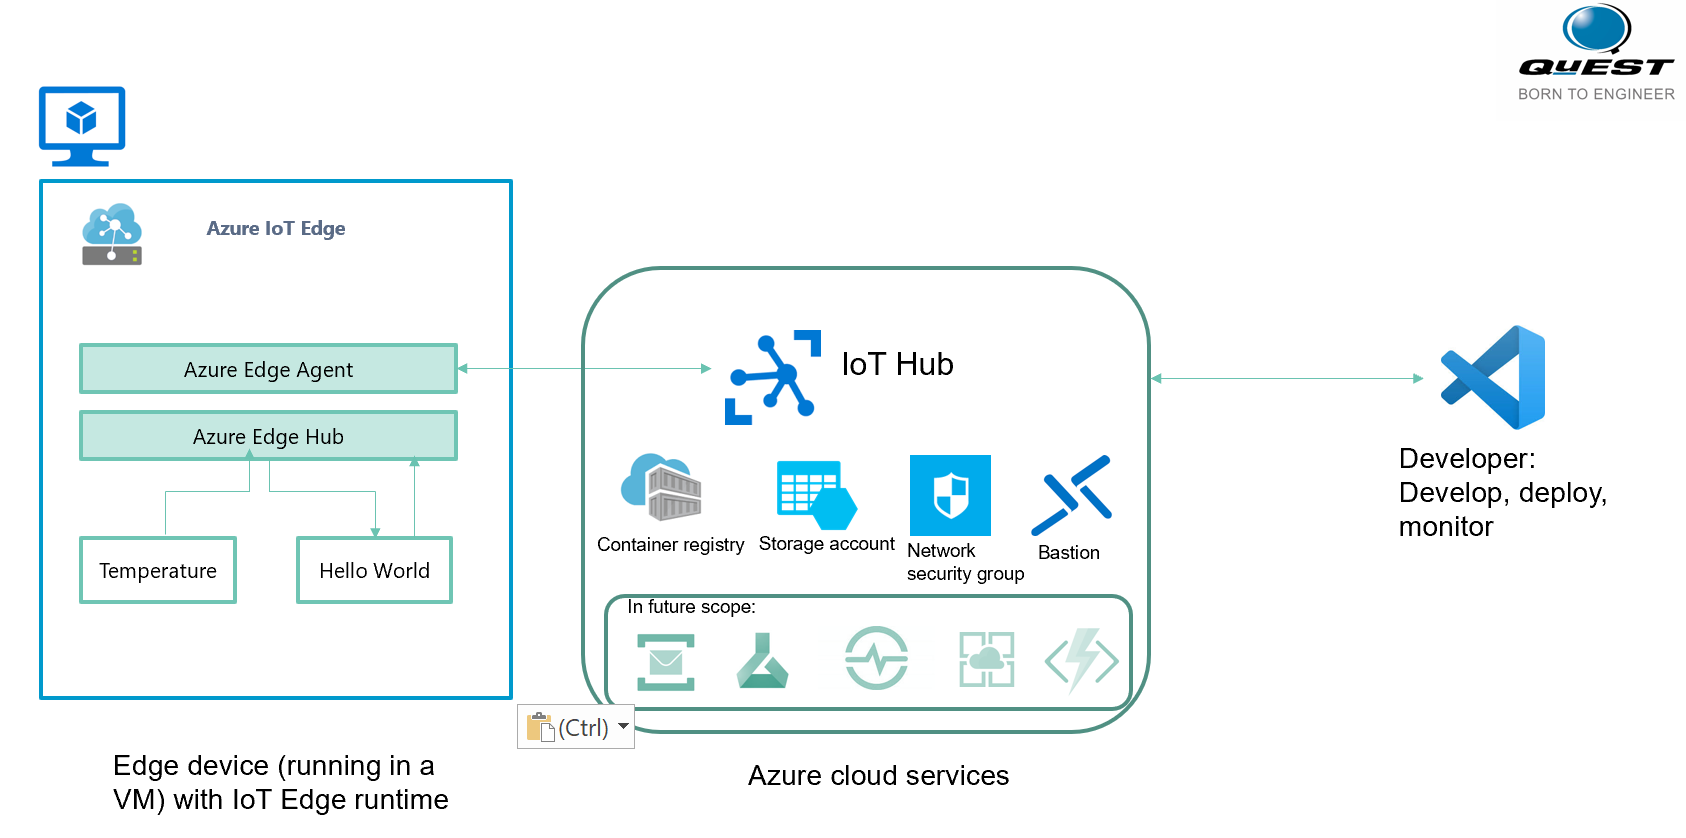
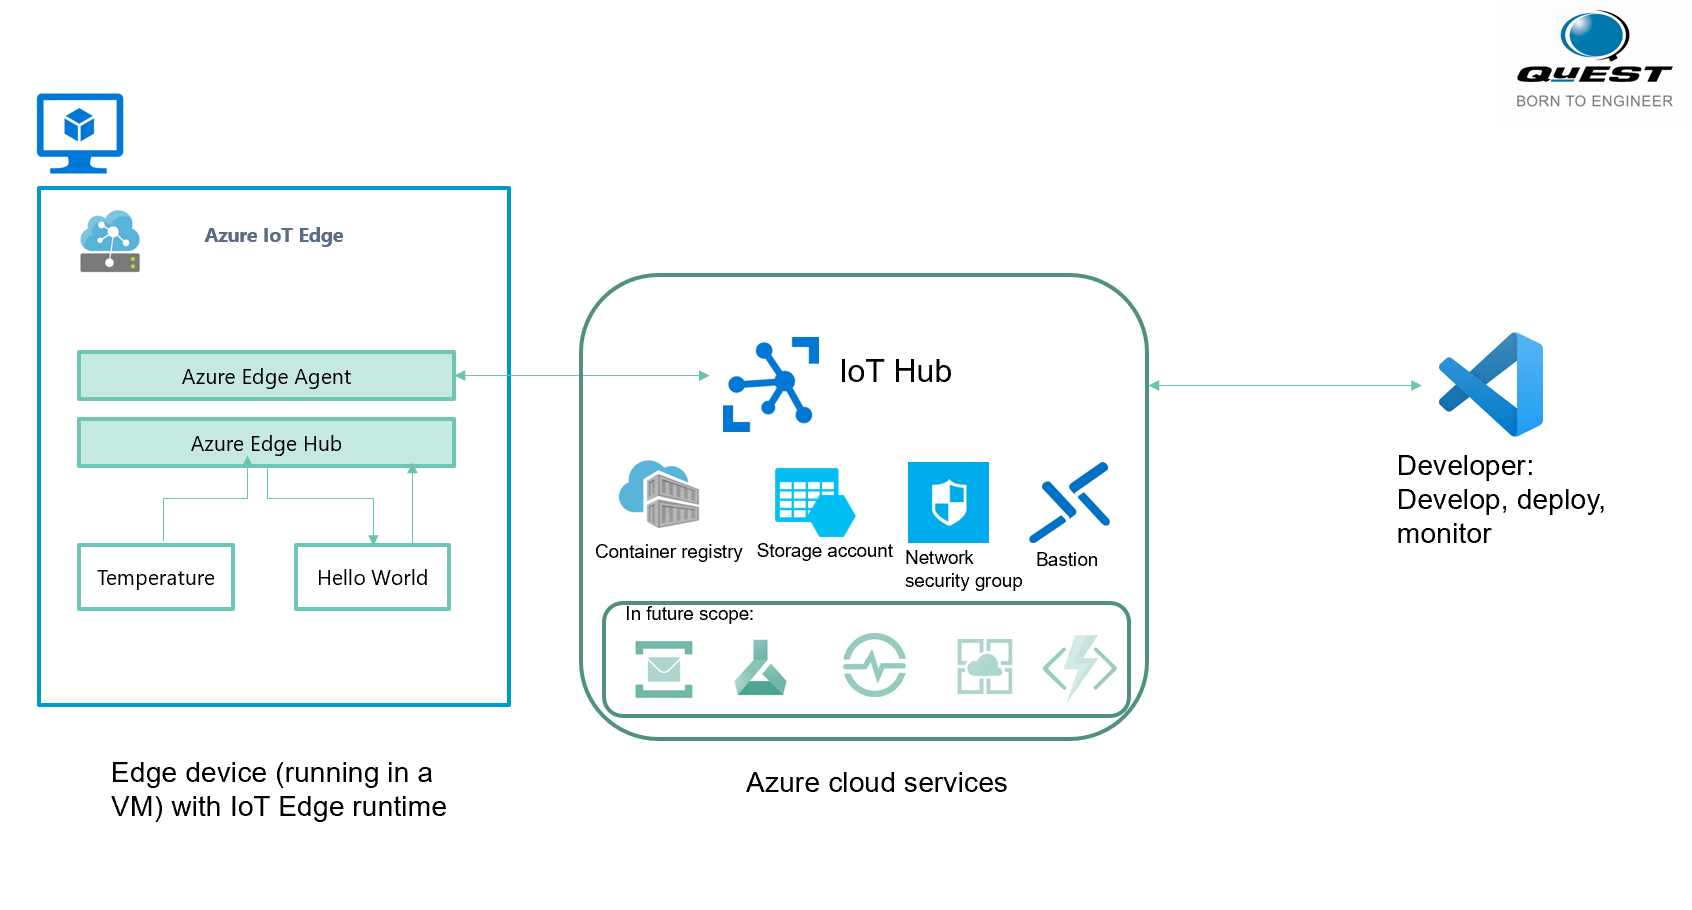
More fixes

diff --git a/IoT Edge Setup/index.html b/IoT Edge Setup/index.html
@@ -42,6 +42,7 @@
 <li>Ensure you have subscription to Azure and are able to access resources via portal.azure.com</li>
 <li>Familiarity with commandline: In this lab for some operations, you can either use <code>az cli</code> extension with your favourite shell terminal or use <code>shell.azure.com</code></li>
 <li>Ensure you have visual studio code (required for section 6). Download from here if you dont have it already: <a href="https://code.visualstudio.com/download" target="_blank">Link to download VS Code</a></li>
+<li>Make sure you have the development pre-requisites for IoT Edge based on your language selection. In this example we will deploy a C# module, but you can develop other language modules as well. Carry out the suitable installation as per this guide:<a href="https://docs.microsoft.com/en-us/azure/iot-edge/how-to-vs-code-develop-module" target="_blank">VS Code develop IoT Edge modules</a></li>
 <li>You will also require Docker desktop to be running on your local machine (PC, Laptop). This is required for building IoT edge modules. You can download docker desktop from here: <a href="https://www.docker.com/products/docker-desktop" target="_blank">Link to download docker desktop</a></li>
 </ul>
 
@@ -312,7 +313,7 @@ $ sudo iotedge logs helloworld
 <li>Some of the next steps you can start looking at is, how to query module twins, DirectMethod for more communication patterns between cloud &amp; Edge</li>
 <li>This typically forms a one time setup: a baseline on which you will write your business logic. So you can iterate on this setup as per your use-case to add additional functionality.</li>
 </ul>
-<p>Our architecture can be summarized as per below: <img alt="Goal" src="img\5d267083f298e04d.png"></p>
+<p>Our architecture can be summarized as per below: <img alt="Goal" src="img\b7b8d8bd3493d8d1.png"></p>
 <p>This forms a baseline on which you can configure different Azure services, create new business logic (cloud or device) etc.</p>
 
 

diff --git a/iot-edge-setup.md b/iot-edge-setup.md
@@ -27,6 +27,7 @@ These tasks are summarized as below:
 - Ensure you have subscription to Azure and are able to access resources via portal.azure.com
 - Familiarity with commandline: In this lab for some operations, you can either use <code>az cli</code> extension with your favourite shell terminal or use <code>shell.azure.com</code>
 - Ensure you have visual studio code (required for section 6). Download from here if you dont have it already: [Link to download VS Code](https://code.visualstudio.com/download)
+- Make sure you have the development pre-requisites for IoT Edge based on your language selection. In this example we will deploy a C# module, but you can develop other language modules as well. Carry out the suitable installation as per this guide:[VS Code develop IoT Edge modules](https://docs.microsoft.com/en-us/azure/iot-edge/how-to-vs-code-develop-module)
 - You will also require Docker desktop to be running on your local machine (PC, Laptop). This is required for building IoT edge modules. You can download docker desktop from here: [Link to download docker desktop](https://www.docker.com/products/docker-desktop)
 
 ## Preparing the Cloud services
